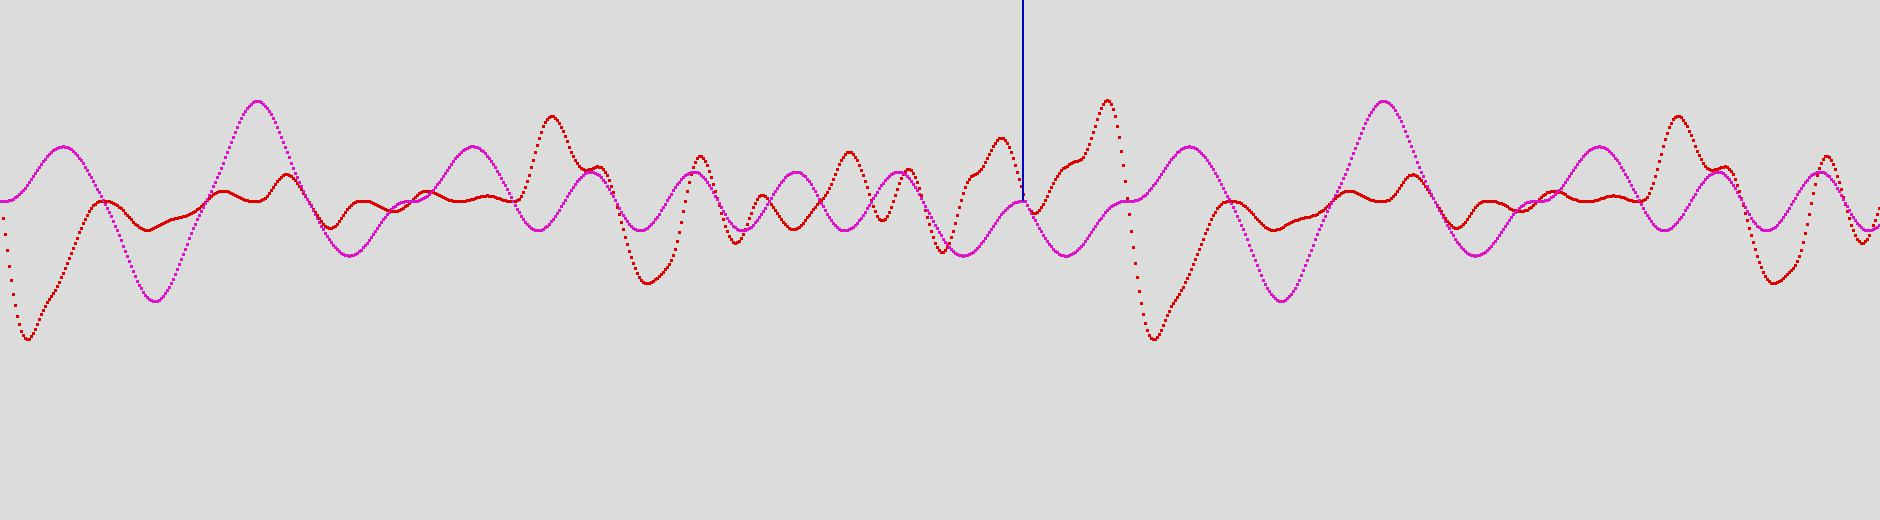
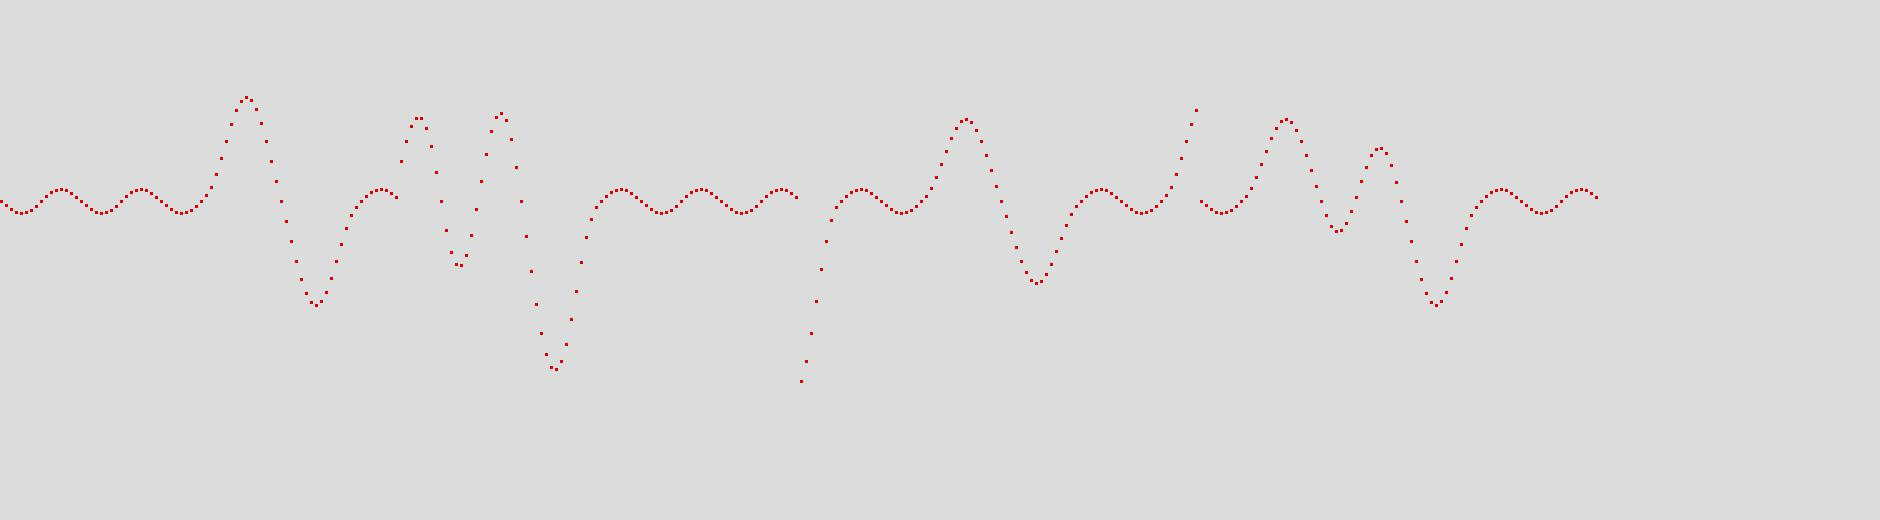
==>Adding new cracked screen model

diff --git a/pieces/screen.py b/pieces/screen.py
@@ -1,0 +1,212 @@
+import time
+import random
+import math
+import datetime
+from PIL import ImageFont, Image, ImageDraw, ImageOps, ImageEnhance, ImageChops
+from modules import colorutils, coloroverlay
+import argparse
+
+
+class Crack:
+
+	origin = [0,0]
+	pointsCount = 5
+	points = []
+	yVarMin = 1
+	yVarMax = 10
+
+	def __init__(self, config):
+		self.config = config
+		self.fillColor = colorutils.getRandomRGB()
+		self.crackColor = (200,200,200,100)
+
+
+	def setUp(self):
+
+		# Draw "backwards" from the origin
+		lastPoint = self.origin
+		self.points = []
+		self.slopes = []
+		self.points.append([self.origin[0],self.origin[1]])
+
+		xRange = self.config.canvasWidth/self.pointsCount
+
+		a = 0
+		slope = 0
+
+		for i in range (0, self.pointsCount):
+			x = round(self.origin[0] + xRange * i - round(random.uniform(-xRange/2,xRange/2)))
+			y = round(self.origin[1] + round(random.uniform(self.yVarMin * (i+1), self.yVarMax * (i +1))))
+
+			if x < 0 :
+				x = 0
+
+			self.points.append([x,y])
+
+			dx = lastPoint[0] - x
+			dy = lastPoint[1] - y
+
+			if dx != 0 :
+				slope = dy/dx
+			else :
+				slope = 0
+
+			self.slopes.append(slope)
+
+			lastPoint[0] = x
+			lastPoint[1] = y
+			
+
+
+	
+	def render(self):
+		for i in range (0, self.pointsCount - 1):
+			self.config.canvasDraw.line((self.points[i][0], self.points[i][1], self.points[i+1][0], self.points[i+1][1] ), fill=self.crackColor)
+
+
+
+def showGrid():
+	global config
+
+	if random.random() < .000001 :
+		config.draw.rectangle((0,0,config.screenWidth, config.screenHeight), fill=config.bgColor, outline=(0,0,0))
+	
+	for row in range (0, config.rows) :
+		for col in range (0, config.cols) :
+			xPos = col * config.tileSizeWidth 
+			yPos = row * config.tileSizeHeight
+			#config.canvasDraw.rectangle((xPos,yPos,xPos + config.tileSizeWidth - 1, yPos +  config.tileSizeHeight -1), fill=config.bgColor, outline=config.outlineColor)
+			config.canvasDraw.rectangle((xPos,yPos,xPos + config.tileSizeWidth - 1, yPos +  config.tileSizeHeight -1), fill=config.bgColor, outline=None)
+			
+
+	config.sampleVariationX = 5
+	config.sampleVariationY = 0
+	for i in range(0, len(config.crackArray)):
+		config.crackArray[i].render()
+
+		## Draw vertical lines from one line to the next
+		if i < len(config.crackArray) - 1 :
+			for p in range(0, config.pointsCount-1):
+				startX = config.crackArray[i].points[p][0]
+				endX = config.crackArray[i].points[p+1][0]
+				aVal =  0
+				#config.canvasDraw.line((startX, 0, startX, config.crackArray[i].points[p][1]), fill=(0, 0, 200,200))
+				for x in range( startX, endX, 1) :
+					y =  (x - startX) * config.crackArray[i].slopes[p] + config.crackArray[i].points[p][1]
+					y2 =  (x - startX) * config.crackArray[i+1].slopes[p] + config.crackArray[i+1].points[p][1]
+					#config.canvasDraw.rectangle((x, y, x+1, y+1), fill=(200, 0, 0))
+					#y2 = config.crackArray[i].points[p][1]
+					if i > 0 and random.random() < .5:
+						xSample = x - round(random.uniform(-config.sampleVariationX ,config.sampleVariationX ))
+						ySample = y - round(random.uniform(-config.sampleVariationY ,config.sampleVariationY ))
+						if xSample < 0 : xSample = 0
+						if xSample > config.canvasWidth : xSample = config.canvasWidth 
+						if ySample < 0 : ySample = 0
+						if ySample > config.canvasHeight : ySample = config.canvasHeight
+						samplePoint = ( xSample, ySample )
+						# Just make sure the sample point is actually within the bounds of the image
+						if(samplePoint[0] < config.canvasWidth and samplePoint[1] < config.canvasHeight):
+							colorSample = config.canvasImage.getpixel(samplePoint)
+
+							#randomize brightness a little
+							colorSampleColor = tuple(int(round(c * random.uniform(.1,1))) for c in colorSample)
+
+							# Once in a little while, the color is just random
+							if(random.random() < config.randomColorSampleProb) : 
+								colorSampleColor = colorutils.getRandomRGB(random.random())
+
+						config.canvasDraw.line((x, y, x, y2), fill=colorSampleColor)
+
+
+	
+	config.image.paste(config.canvasImage, (config.imageXOffset, config.imageYOffset), config.canvasImage)
+	config.render(config.image, 0,0)
+
+
+
+def main(run = True) :
+	global config, directionOrder
+	print("---------------------")
+	print("Diag Loaded")
+
+	colorutils.brightness = config.brightness
+	
+
+	try:
+		config.imageXOffset = int(workConfig.get("displayconfig","imageXOffset"))
+	except Exception as e:
+		print (str(e))
+		config.imageXOffset = 0
+	
+	config.outlineColorVals = ((workConfig.get("screenproject", 'outlineColor')).split(','))
+	config.outlineColor = tuple(map(lambda x: int(int(x) * config.brightness) , config.outlineColorVals))	
+	config.bgColorVals = ((workConfig.get("screenproject", 'bgColor')).split(','))
+	config.bgColor = tuple(map(lambda x: int(int(x) * config.brightness) , config.bgColorVals))	
+	config.crackColorVals = ((workConfig.get("screenproject", 'crackColor')).split(','))
+	config.crackColor = tuple(map(lambda x: int(int(x) * config.brightness) , config.crackColorVals))
+	
+	config.tileSizeWidth = int(workConfig.get("displayconfig", 'tileSizeWidth'))
+	config.tileSizeHeight = int(workConfig.get("displayconfig", 'tileSizeHeight'))
+	config.delay = float(workConfig.get("screenproject", 'delay'))
+	
+	config.numCracks = int(workConfig.get("screenproject", 'numCracks'))
+	config.pointsCount = int(workConfig.get("screenproject", 'pointsCount'))
+
+
+	config.randomColorSampleProb = float(workConfig.get("screenproject", 'randomColorSampleProb'))
+	config.yVarMin = int(workConfig.get("screenproject", 'yVarMin'))
+	config.yVarMax = int(workConfig.get("screenproject", 'yVarMax'))
+
+	config.image = Image.new("RGBA", (config.screenWidth  , config.screenHeight))
+	config.draw = ImageDraw.Draw(config.image)
+	config.canvasImage = Image.new("RGBA", (config.canvasWidth  , config.canvasHeight))
+	config.canvasDraw = ImageDraw.Draw(config.canvasImage)
+
+	config.crackArray = []
+	for i in range(0,config.numCracks):
+		obj = Crack(config)
+		obj.origin = [config.canvasWidth, config.canvasHeight]
+		obj.origin = [0,0]
+		obj.pointsCount = config.pointsCount
+		obj.crackColor = config.crackColor
+		obj.yVarMin = config.yVarMin
+		obj.yVarMax = config.yVarMax
+		obj.setUp()
+		config.crackArray.append(obj)
+
+	setUp()
+
+	if(run) : runWork()
+
+
+def setUp():
+	global config
+
+
+def runWork():
+	global config
+	while True:
+		iterate()
+		time.sleep(config.delay)  
+
+
+def iterate() :
+	global config
+	showGrid()
+
+
+def callBack() :
+	global config
+	return True
+
+
+
+
+''''''''''''''''''''''''''''''''''''''''''''''''''''''''''''''
+
+
+	
+
+
+
+

diff --git a/testing/testn.py b/testing/testn.py
@@ -1,7 +1,7 @@
 
 import sys
-import pyglet
-from pyglet.gl import *
+#import pyglet
+#from pyglet.gl import *
 import noise
 from noise import *
 
@@ -23,12 +23,13 @@ def imports():
 
 def drawTest() :
 
-	points = 512
-	span = 10.0
+	points = 80
+	span = random.uniform(5.0,15.0)
+	span = 5.0
 	speed = 1.0
 	base = 5
 	min = max = 0
-	octaves = 2
+	octaves = 1
 	xMult = 150
 	yMult = 200
 	xOffset = 0
@@ -42,7 +43,7 @@ def drawTest() :
 	draw = ImageDraw.Draw(renderImage)
 	draw.rectangle((0,0,imgWidthFull,imgHeightFull), fill=(220,220,220,255))
 	#draw.rectangle((0,0,100,100), fill=(220,2,2))
-
+	xMult = 5
 
 	for n in range (0,4):
 
@@ -54,18 +55,18 @@ def drawTest() :
 			y2 = noise.pnoise2(x + base, octaves)
 			#print(x * 2.0 / span, y, 0)
 
-			xPos = xOffset + i * 2 #round(xOffset + x * xMult)
+			xPos = xOffset + i * xMult #round(xOffset + x * xMult)
 			yPos = round(yOffset + y * yMult)
 			yPos2 = round(yOffset + y2 * yMult)
 
 			draw.rectangle((xPos, yPos, 2 + xPos, 2 +  yPos), fill=(220,2,2))
-			draw.rectangle((xPos, yPos2, 2 + xPos, 2 +  yPos2), fill=(220,20,200))
-		draw.rectangle((xPos, 0, 1 + xPos, 200), fill=(0,2,200))
-		xOffset += points * 2
+			#draw.rectangle((xPos, yPos2, 2 + xPos, 2 +  yPos2), fill=(220,20,200))
+		#draw.rectangle((xPos, 0, 1 + xPos, 200), fill=(0,2,200))
+		xOffset += points * xMult
 		base += points-1
 
 	t = 1
-	baseName = "output/comp5_"
+	baseName = "./output/comp5_"
 	fn = baseName+ str(t)+".jpg"
 	renderImage.save(fn)
 
